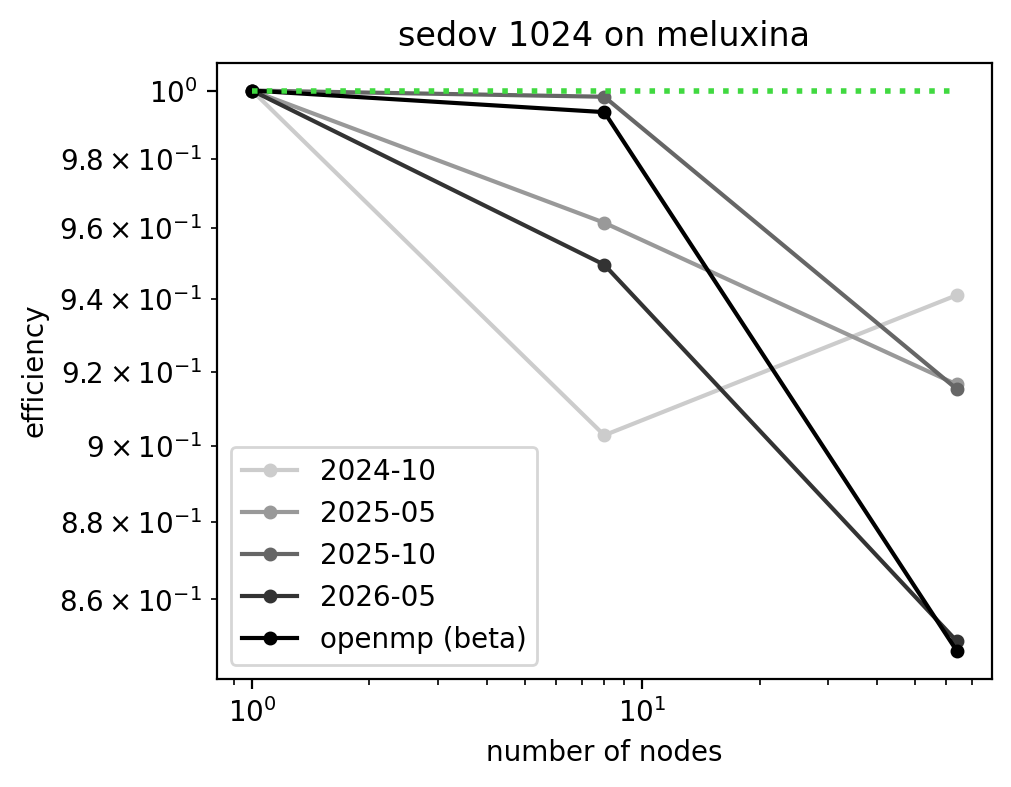
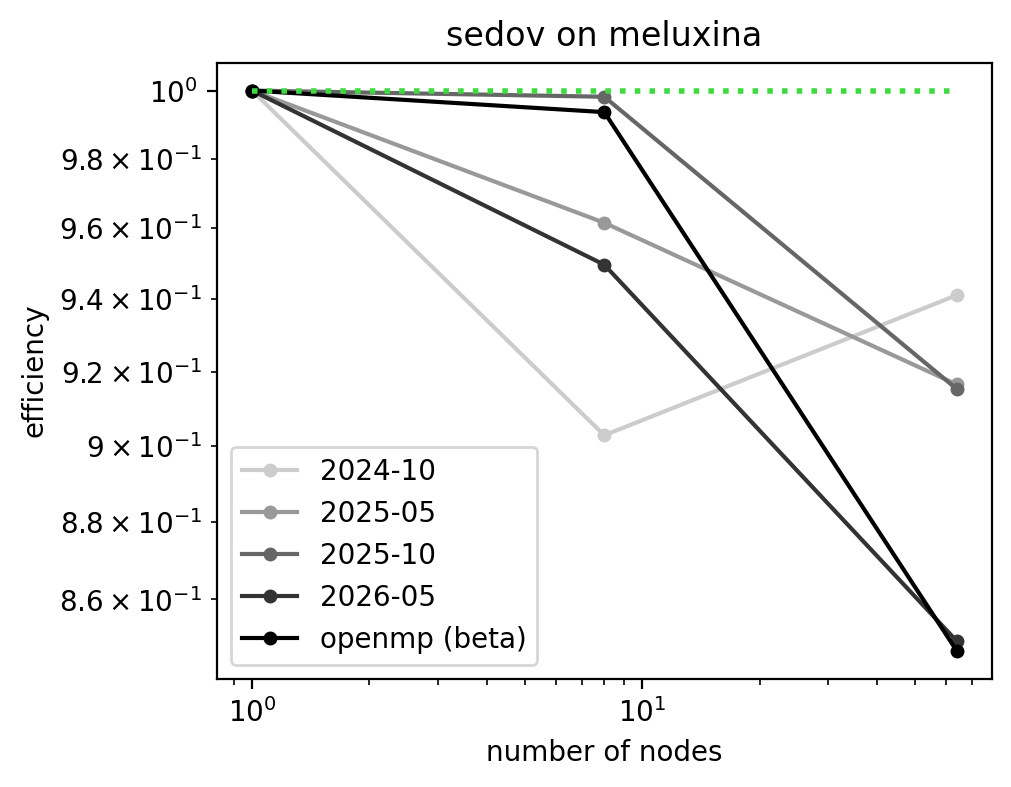
clean up strong scaling

Changed region(s): [[0.3986, 0.0305, 0.7972, 0.061]]

diff --git a/analysis/scaling_strong.py b/analysis/scaling_strong.py
@@ -2,7 +2,10 @@ import numpy as np
 import io
 from matplotlib import pyplot as plt
 import matplotlib.colors as colorsx
-from visualisation import search_best_config
+from visualisation import scan_data
+
+MAX_NNODES = 512
+
 
 ''' Plot evolution of execution time (different commits) for various number of nodes '''
 def plot_strong_scaling(benchmarks, release_labels, reso, input_axes=None, 
@@ -21,21 +24,14 @@ def plot_strong_scaling(benchmarks, release_labels, reso, input_axes=None,
     else:
         axes = input_axes
 
+    # we will scan all possible number of nodes
+    arr_nodes_in = range(MAX_NNODES+1)
+    arr_resos_in = [reso]*len(arr_nodes_in) # resolution is the same for each number of nodes
+
     max_nodes = 1
     for data,label in zip(benchmarks,release_labels):
-        times = []
-        arr_nodes = []
-        configs = []
-        for nodes in range(512):
 
-            # search best average time amongst mpi-omp configs
-            best_entry, best_time = search_best_config(data,reso,nodes)
-
-            if best_entry is not None:
-                times.append(float(best_time))
-                arr_nodes.append(nodes)
-                best_config = f'MPI={best_entry['mpi_procs_per_node']} OMP={best_entry['omp_threads']}'
-                configs.append(best_config)
+        times, arr_nodes, _, configs = scan_data(data, arr_nodes_in, arr_resos_in)
 
         if len(times)>0:
             axes.plot(arr_nodes,np.array(times[0])/np.array(times),
@@ -57,121 +53,81 @@ def plot_strong_scaling(benchmarks, release_labels, reso, input_axes=None,
         plt.close()
 
 
-def table_strong_scaling(
-        benchmarks,
-        release_labels,
-        reso,
-        fmt='markdown'):
-    """
-    Print strong scaling efficiency table.
+''' Generate strong scaling efficiency table, in markdown or latex format '''
+def table_strong_scaling(benchmarks, release_labels, reso, fmt='markdown'):
 
-    Parameters
-    ----------
-    fmt : str
-        'markdown' or 'latex'
-    """
+    out = io.StringIO()
+
+    # ---------- Header ----------
+
+    if fmt == 'markdown':
+        header = "| nodes | " + " | ".join(release_labels) + " |"
+        sep    = "|" + "---|"*(len(release_labels)+1)
+        print(header, file=out)
+        print(sep, file=out)
+
+    elif fmt == 'latex':
+        ncols = len(release_labels) + 1
+        header = "nodes & " + " & ".join(release_labels) + r" \\"
+        print(r"\begin{tabular}{" + "l"*ncols + "}", file=out)
+        print(r"\hline", file=out)
+        print(header, file=out)
+        print(r"\hline", file=out)
+    else:
+        raise ValueError("[table_strong_scaling] fmt must be 'markdown' or 'latex'")
+
+    # ---------- Gather table entries from all releases ----------
+
+    # we will scan all possible number of nodes
+    arr_nodes_in = range(MAX_NNODES+1)
+    arr_resos_in = [reso]*len(arr_nodes_in) # resolution is the same for each number of nodes
 
     release_results = {}
     all_nodes = set()
+    for data,label in zip(benchmarks,release_labels):
 
-    for data, label in zip(benchmarks, release_labels):
+        # Extract results from the benchmark data 
+        times, avail_nodes, avail_resos, configs = scan_data(data, arr_nodes_in, arr_resos_in)
 
-        best_per_node = {}
-
-        # find fastest config per node
-        for nodes in range(512):
-
-            # search best average time amongst mpi-omp configs
-            best_entry, best_time = search_best_config(data,reso,nodes)
-
-            if best_entry is not None:
-
-                best_per_node[nodes] = {
-                    'time': float(best_time),
-                    'mpi': best_entry['mpi_procs_per_node'],
-                    'omp': best_entry['omp_threads']
-                }
-
-        if len(best_per_node) == 0:
+        # If no data available, go to next release
+        if len(avail_nodes)==0:
             continue
 
-        baseline_nodes = min(best_per_node.keys())
-        baseline_time = best_per_node[baseline_nodes]['time']
-
         col = {}
-
-        for nodes in sorted(best_per_node.keys()):
-
-            runtime = best_per_node[nodes]['time']
-
-            speedup = baseline_time / runtime
-            efficiency = speedup / (nodes / baseline_nodes)
-
-            config = (
-                f"MPI={best_per_node[nodes]['mpi']} "
-                f"OMP={best_per_node[nodes]['omp']}"
-            )
-
-            if best_per_node[nodes]['omp']==0 and best_per_node[nodes]['mpi'] in [112,128]:
-                col[nodes] = f"{efficiency:.3f}"
+        for nodes, time, config in zip(avail_nodes, times, configs):
+            # choose the lowest number of nodes available as reference
+            efficiency = (times[0]/time) / (nodes/avail_nodes[0])
+            # add optimal mpi-omp config unless it's mpi-only on full node
+            if config=='MPI=128 OMP=0' or config=='MPI=112 OMP=0':
+                col[nodes] = (f"{efficiency:.3f}")
             else:
-                col[nodes] = f"{efficiency:.3f} ({config})"
-
+                col[nodes] = (f"{efficiency:.3f} ({config})")
+            # gather for which numbers of nodes we need to write an entry
             all_nodes.add(nodes)
 
         release_results[label] = col
 
     all_nodes = sorted(all_nodes)
 
-    out = io.StringIO()
+    # ---------- Print table row by row ----------
 
-    # ---------- Markdown ----------
-    if fmt == 'markdown':
+    for nodes in all_nodes:
+        row = [str(nodes)]
 
-        header = "| nodes | " + " | ".join(release_labels) + " |"
-        sep    = "|" + "---|"*(len(release_labels)+1)
+        for label in release_labels:
+            value = release_results.get(label,{}).get(nodes, "")
+            row.append(value)
 
-        print(header, file=out)
-        print(sep, file=out)
-
-        for nodes in all_nodes:
-
-            row = [str(nodes)]
-
-            for label in release_labels:
-                value = release_results.get(label, {}).get(nodes, "")
-                row.append(value)
-
+        if fmt == 'markdown':
             print("| " + " | ".join(row) + " |", file=out)
 
-    # ---------- LaTeX ----------
-    elif fmt == 'latex':
-
-        ncols = len(release_labels) + 1
-
-        print(r"\begin{tabular}{" + "l"*ncols + "}", file=out)
-        print(r"\hline", file=out)
-
-        header = "nodes & " + " & ".join(release_labels) + r" \\"
-        print(header, file=out)
-
-        print(r"\hline", file=out)
-
-        for nodes in all_nodes:
-
-            row = [str(nodes)]
-
-            for label in release_labels:
-                value = release_results.get(label, {}).get(nodes, "")
-                row.append(value)
-
+        elif fmt == 'latex':
             print(" & ".join(row) + r" \\", file=out)
 
-        print(r"\hline", file=out)
-        print(r"\end{tabular}", file=out)
+    # ---------- Footer for latex table ----------
 
-    else:
-        raise ValueError("fmt must be 'markdown' or 'latex'")
+    if fmt == 'latex':
+        print(r"\end{tabular}", file=out)
     
     return out.getvalue()
 
@@ -196,16 +152,8 @@ if __name__ == '__main__':
         benchmarks,
         release_labels,
         args.reso,
-        outname=f'images/strong_scaling_{args.benchmark}_{args.reso}_{args.timer}_{args.cluster}.png'
+        outname=f'strong_scaling_{args.benchmark}_{args.reso}_{args.timer}_{args.cluster}.png'
     )
 
-    #table = table_strong_scaling(benchmarks, release_labels, args.reso, fmt='markdown')
     table = table_strong_scaling(benchmarks, release_labels, args.reso, fmt='latex')
     print(table)
-
-
-#python scaling_strong.py -c meluxina -b sedov -r 1024
-#python scaling_strong.py -c meluxina -b sedov-amr -r lvl5-10
-
-#python scaling_strong.py -c discoverer -b sedov -r 1024
-#python scaling_strong.py -c discoverer -b sedov-amr -r lvl5-10

diff --git a/analysis/scaling_weak.py b/analysis/scaling_weak.py
@@ -46,8 +46,7 @@ def plot_weak_scaling(benchmarks, release_labels, arr_nodes_in, resos,
 
 
 ''' Generate weak scaling efficiency table, in markdown or latex format '''
-def table_weak_scaling(benchmarks, release_labels, arr_nodes_in, resos,
-                       fmt='markdown'):
+def table_weak_scaling(benchmarks, release_labels, arr_nodes_in, resos, fmt='markdown'):
 
     out = io.StringIO()
 
@@ -83,7 +82,7 @@ def table_weak_scaling(benchmarks, release_labels, arr_nodes_in, resos,
 
         col = {}
         for nodes, reso, time, config in zip(avail_nodes, avail_resos, times, configs):
-            # choose first available weak-scaling point as reference (lowest number of nodes)
+            # choose the lowest number of nodes available as reference
             efficiency = times[0] / time
             # add optimal mpi-omp config unless it's mpi-only on full node
             if config=='MPI=128 OMP=0' or config=='MPI=112 OMP=0':
@@ -106,7 +105,7 @@ def table_weak_scaling(benchmarks, release_labels, arr_nodes_in, resos,
         if fmt == 'markdown':
             print("| " + " | ".join(row) + " |", file=out)
         elif fmt == 'latex':
-            print(" & ".join(row) + r" \\ \hline", file=out)
+            print(" & ".join(row) + r" \\", file=out)
 
     # ---------- Footer for latex table ----------
 
@@ -114,6 +113,8 @@ def table_weak_scaling(benchmarks, release_labels, arr_nodes_in, resos,
         print(r"\end{tabular}", file=out)
 
     return out.getvalue()
+
+
 
 if __name__ == '__main__':
 
